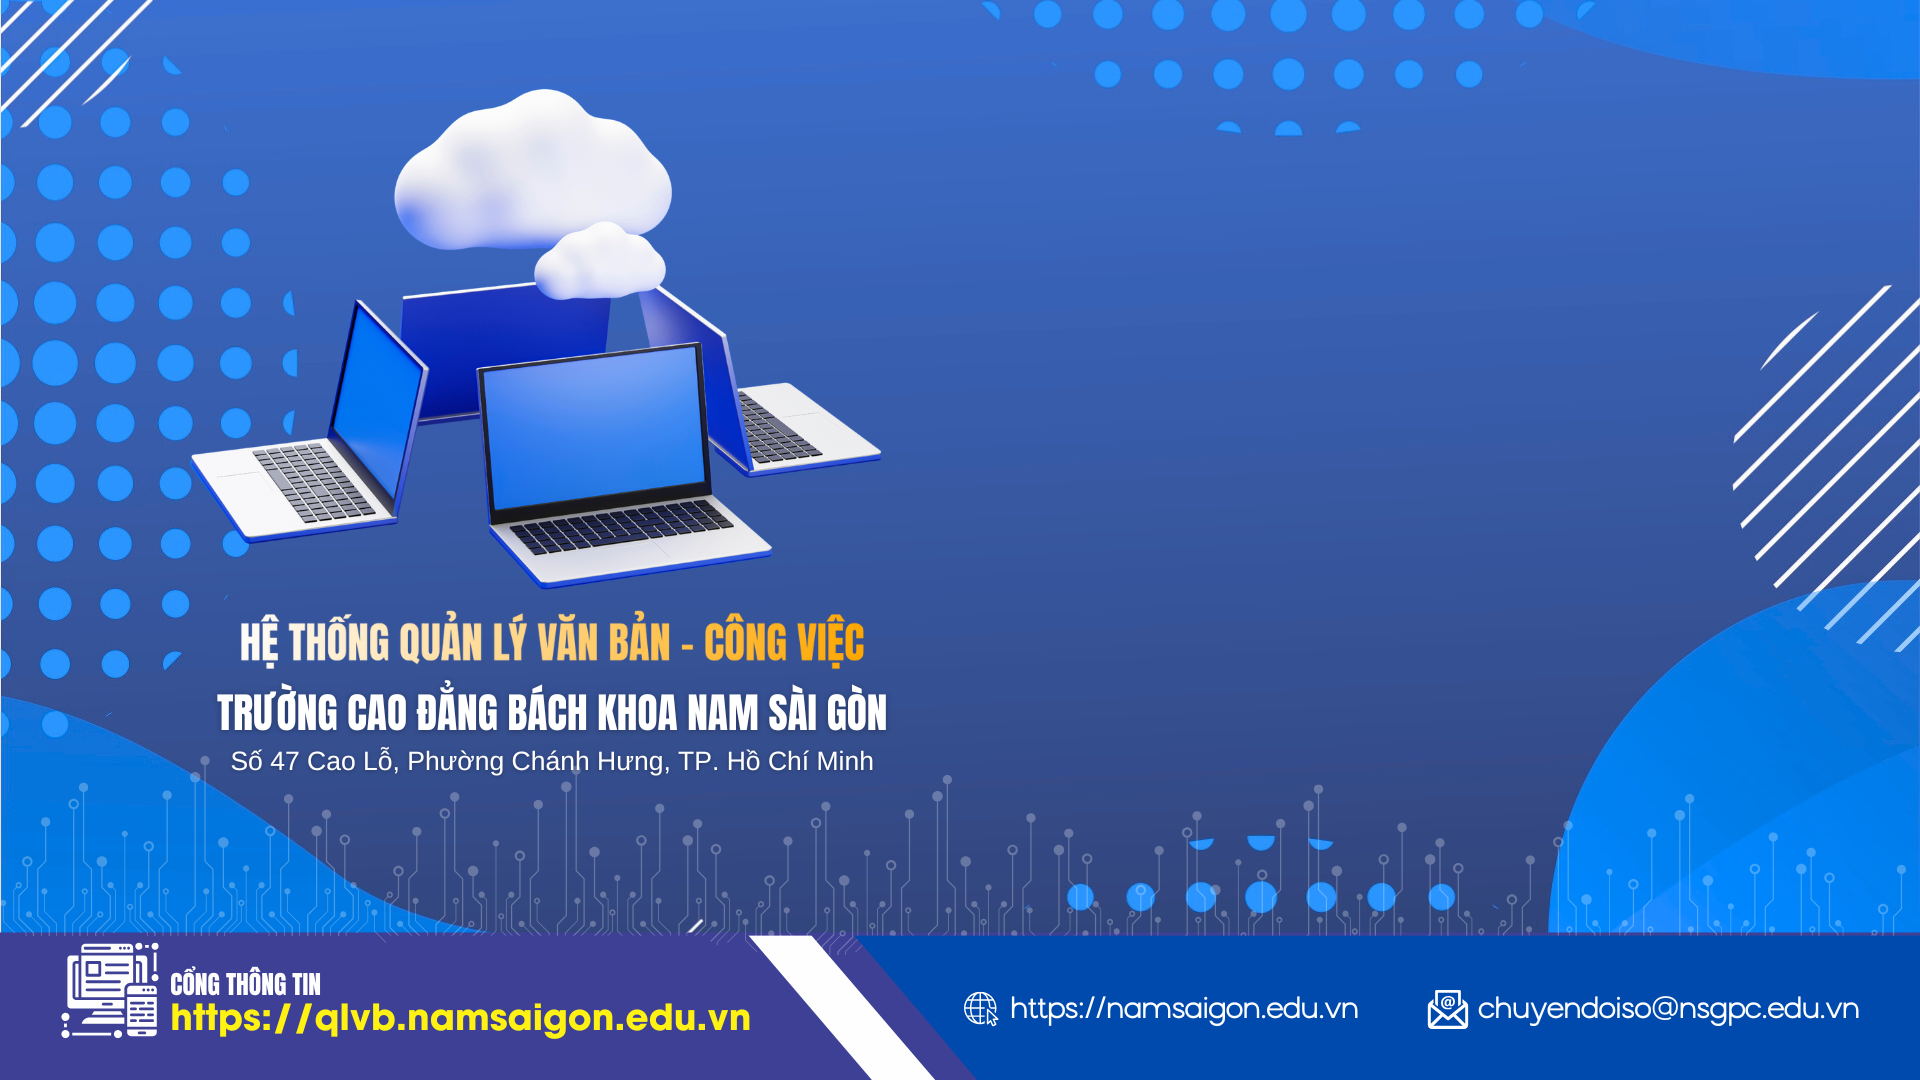
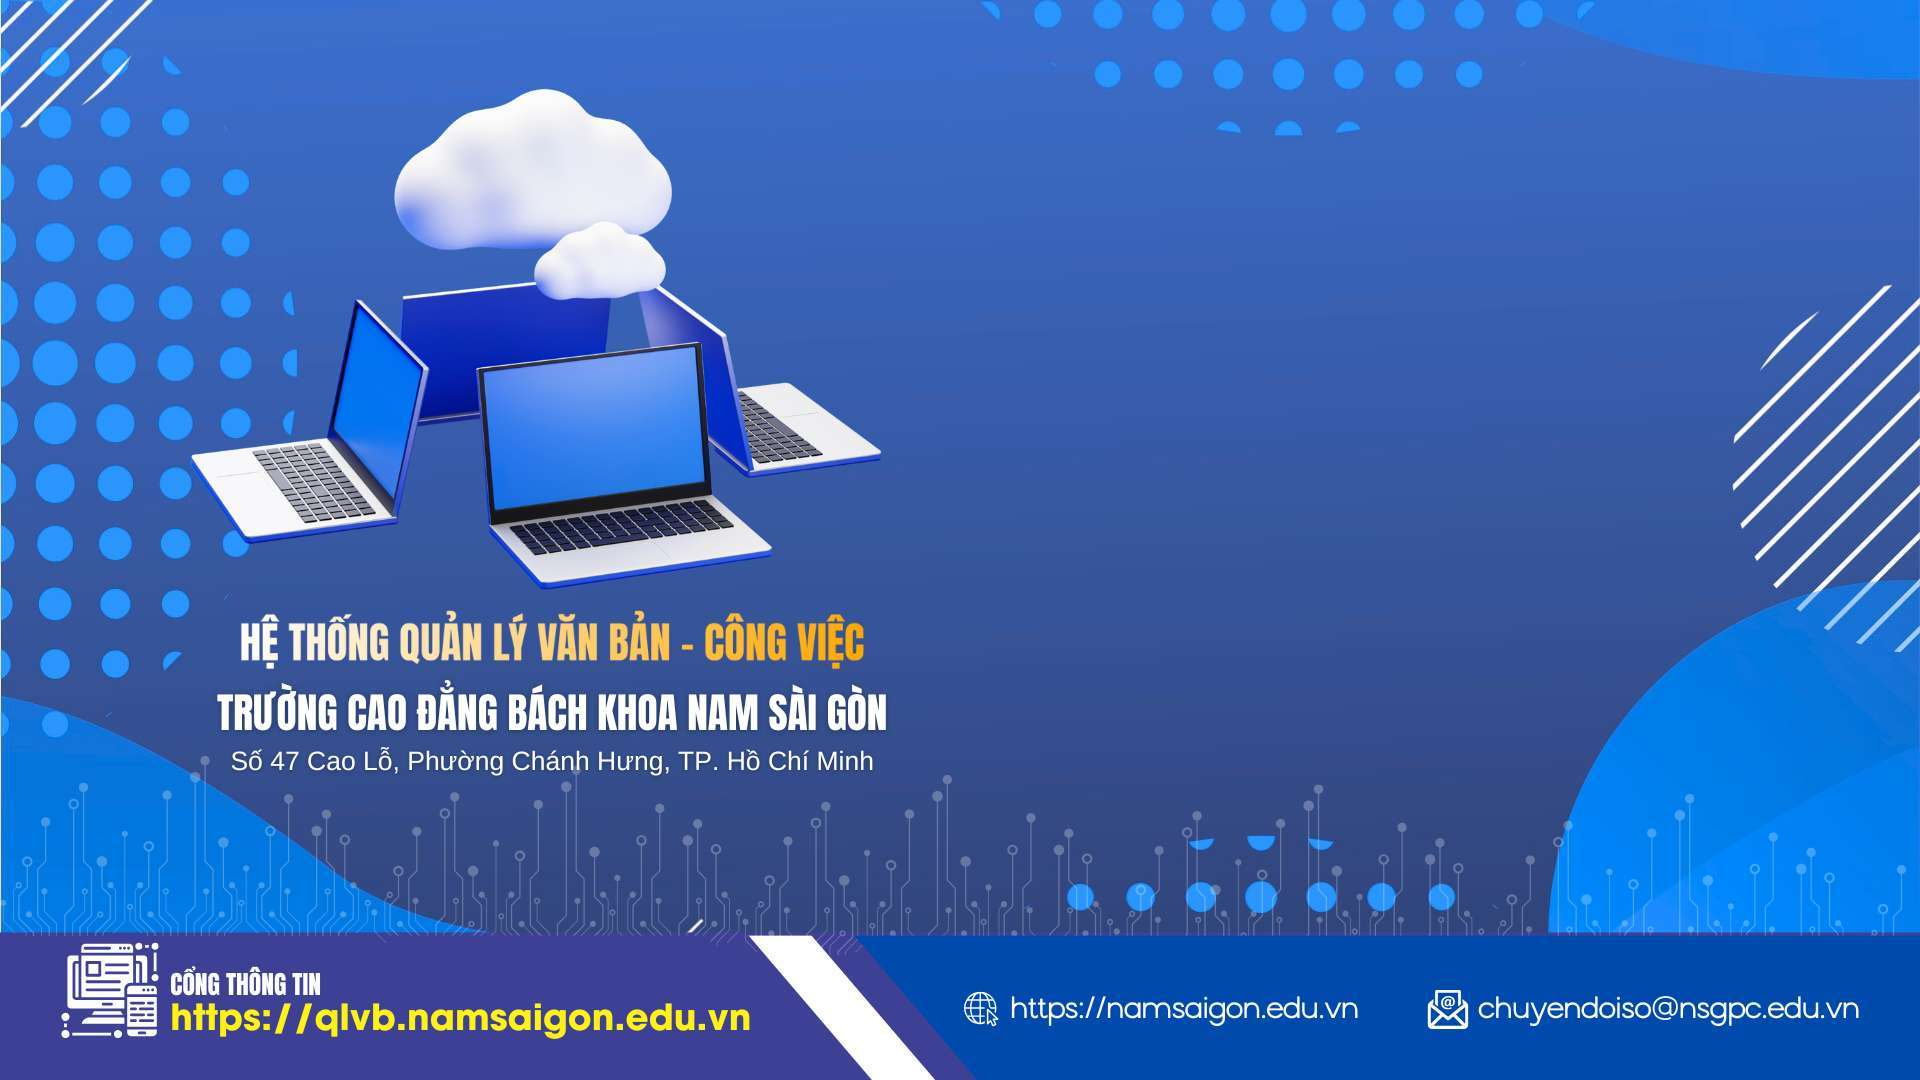
Optimize Fast Origin Transfer: BE compression and FE asset compression

diff --git a/NSG_DocumentMange_BE/server.js b/NSG_DocumentMange_BE/server.js
@@ -11,9 +11,13 @@ const connection = require('./src/config/db');
 const mongoose = require('mongoose');
 const cookieParser = require("cookie-parser");  
 const cors = require("cors");
+const compression = require("compression");
 
 // Security Headers
 app.use(helmet());
+
+// Compress API responses
+app.use(compression());
 
 // Rate Limiting to prevent Brute-Force/DDoS
 const limiter = rateLimit({
